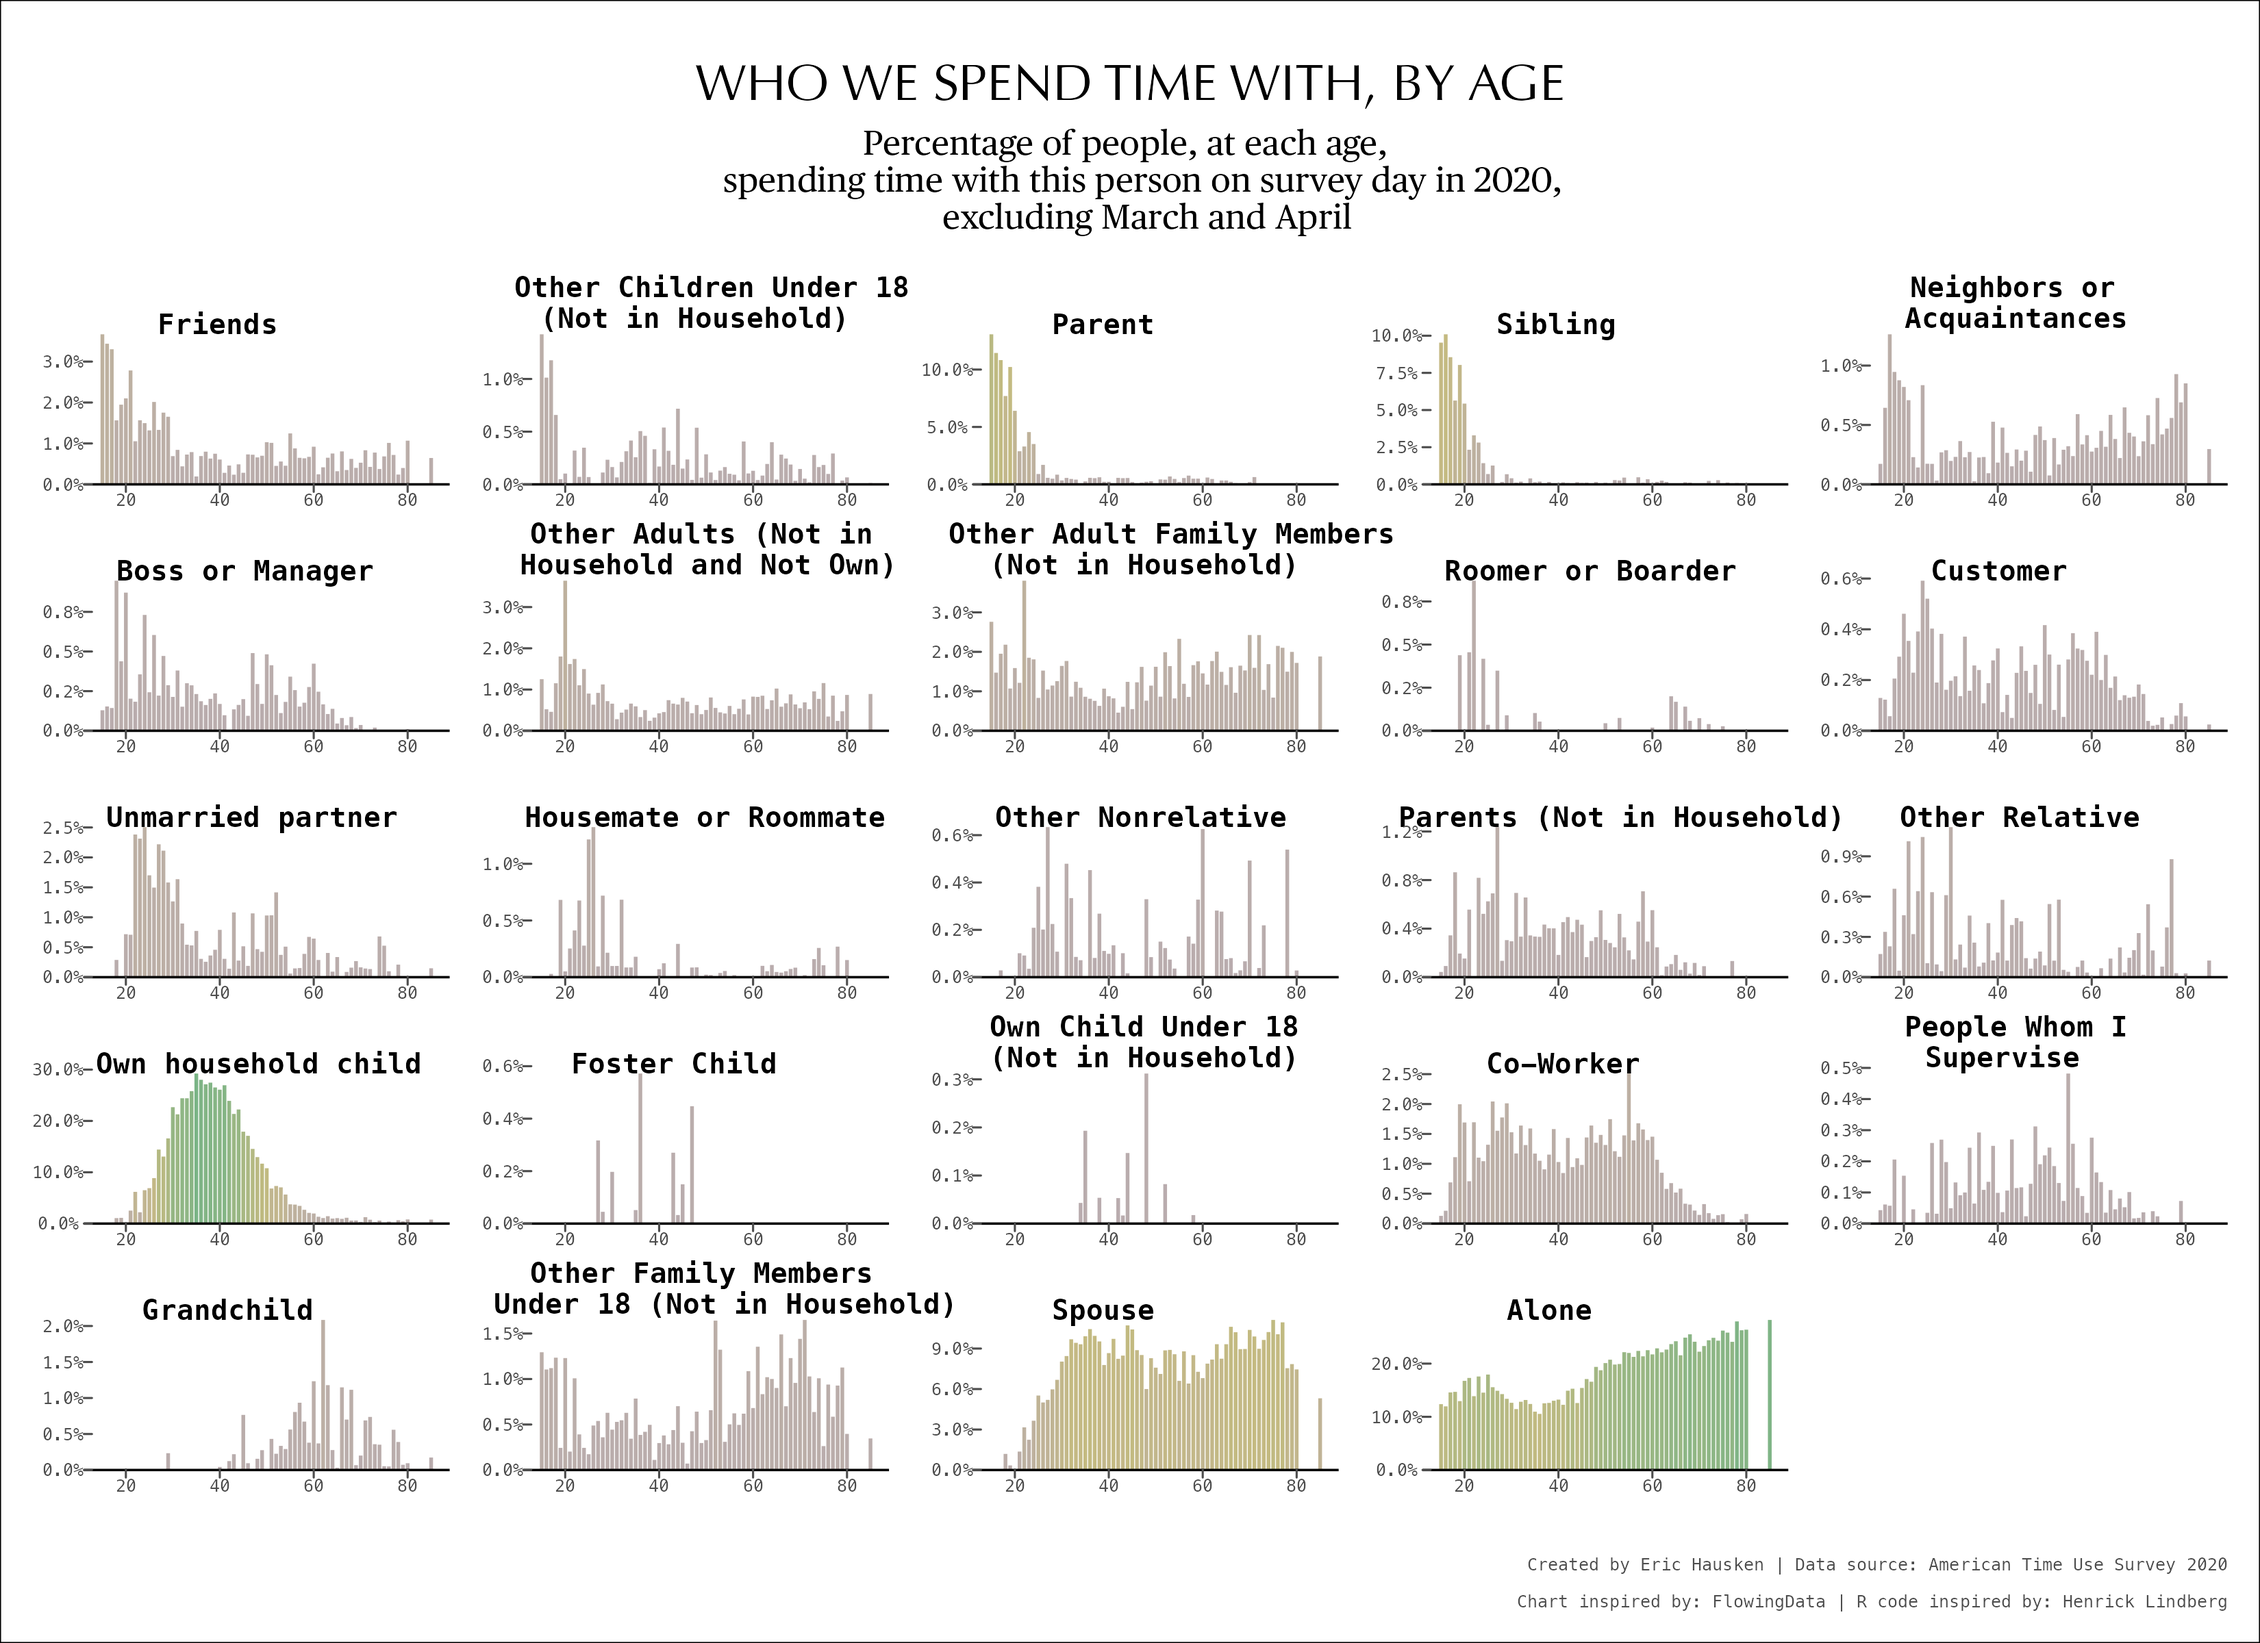
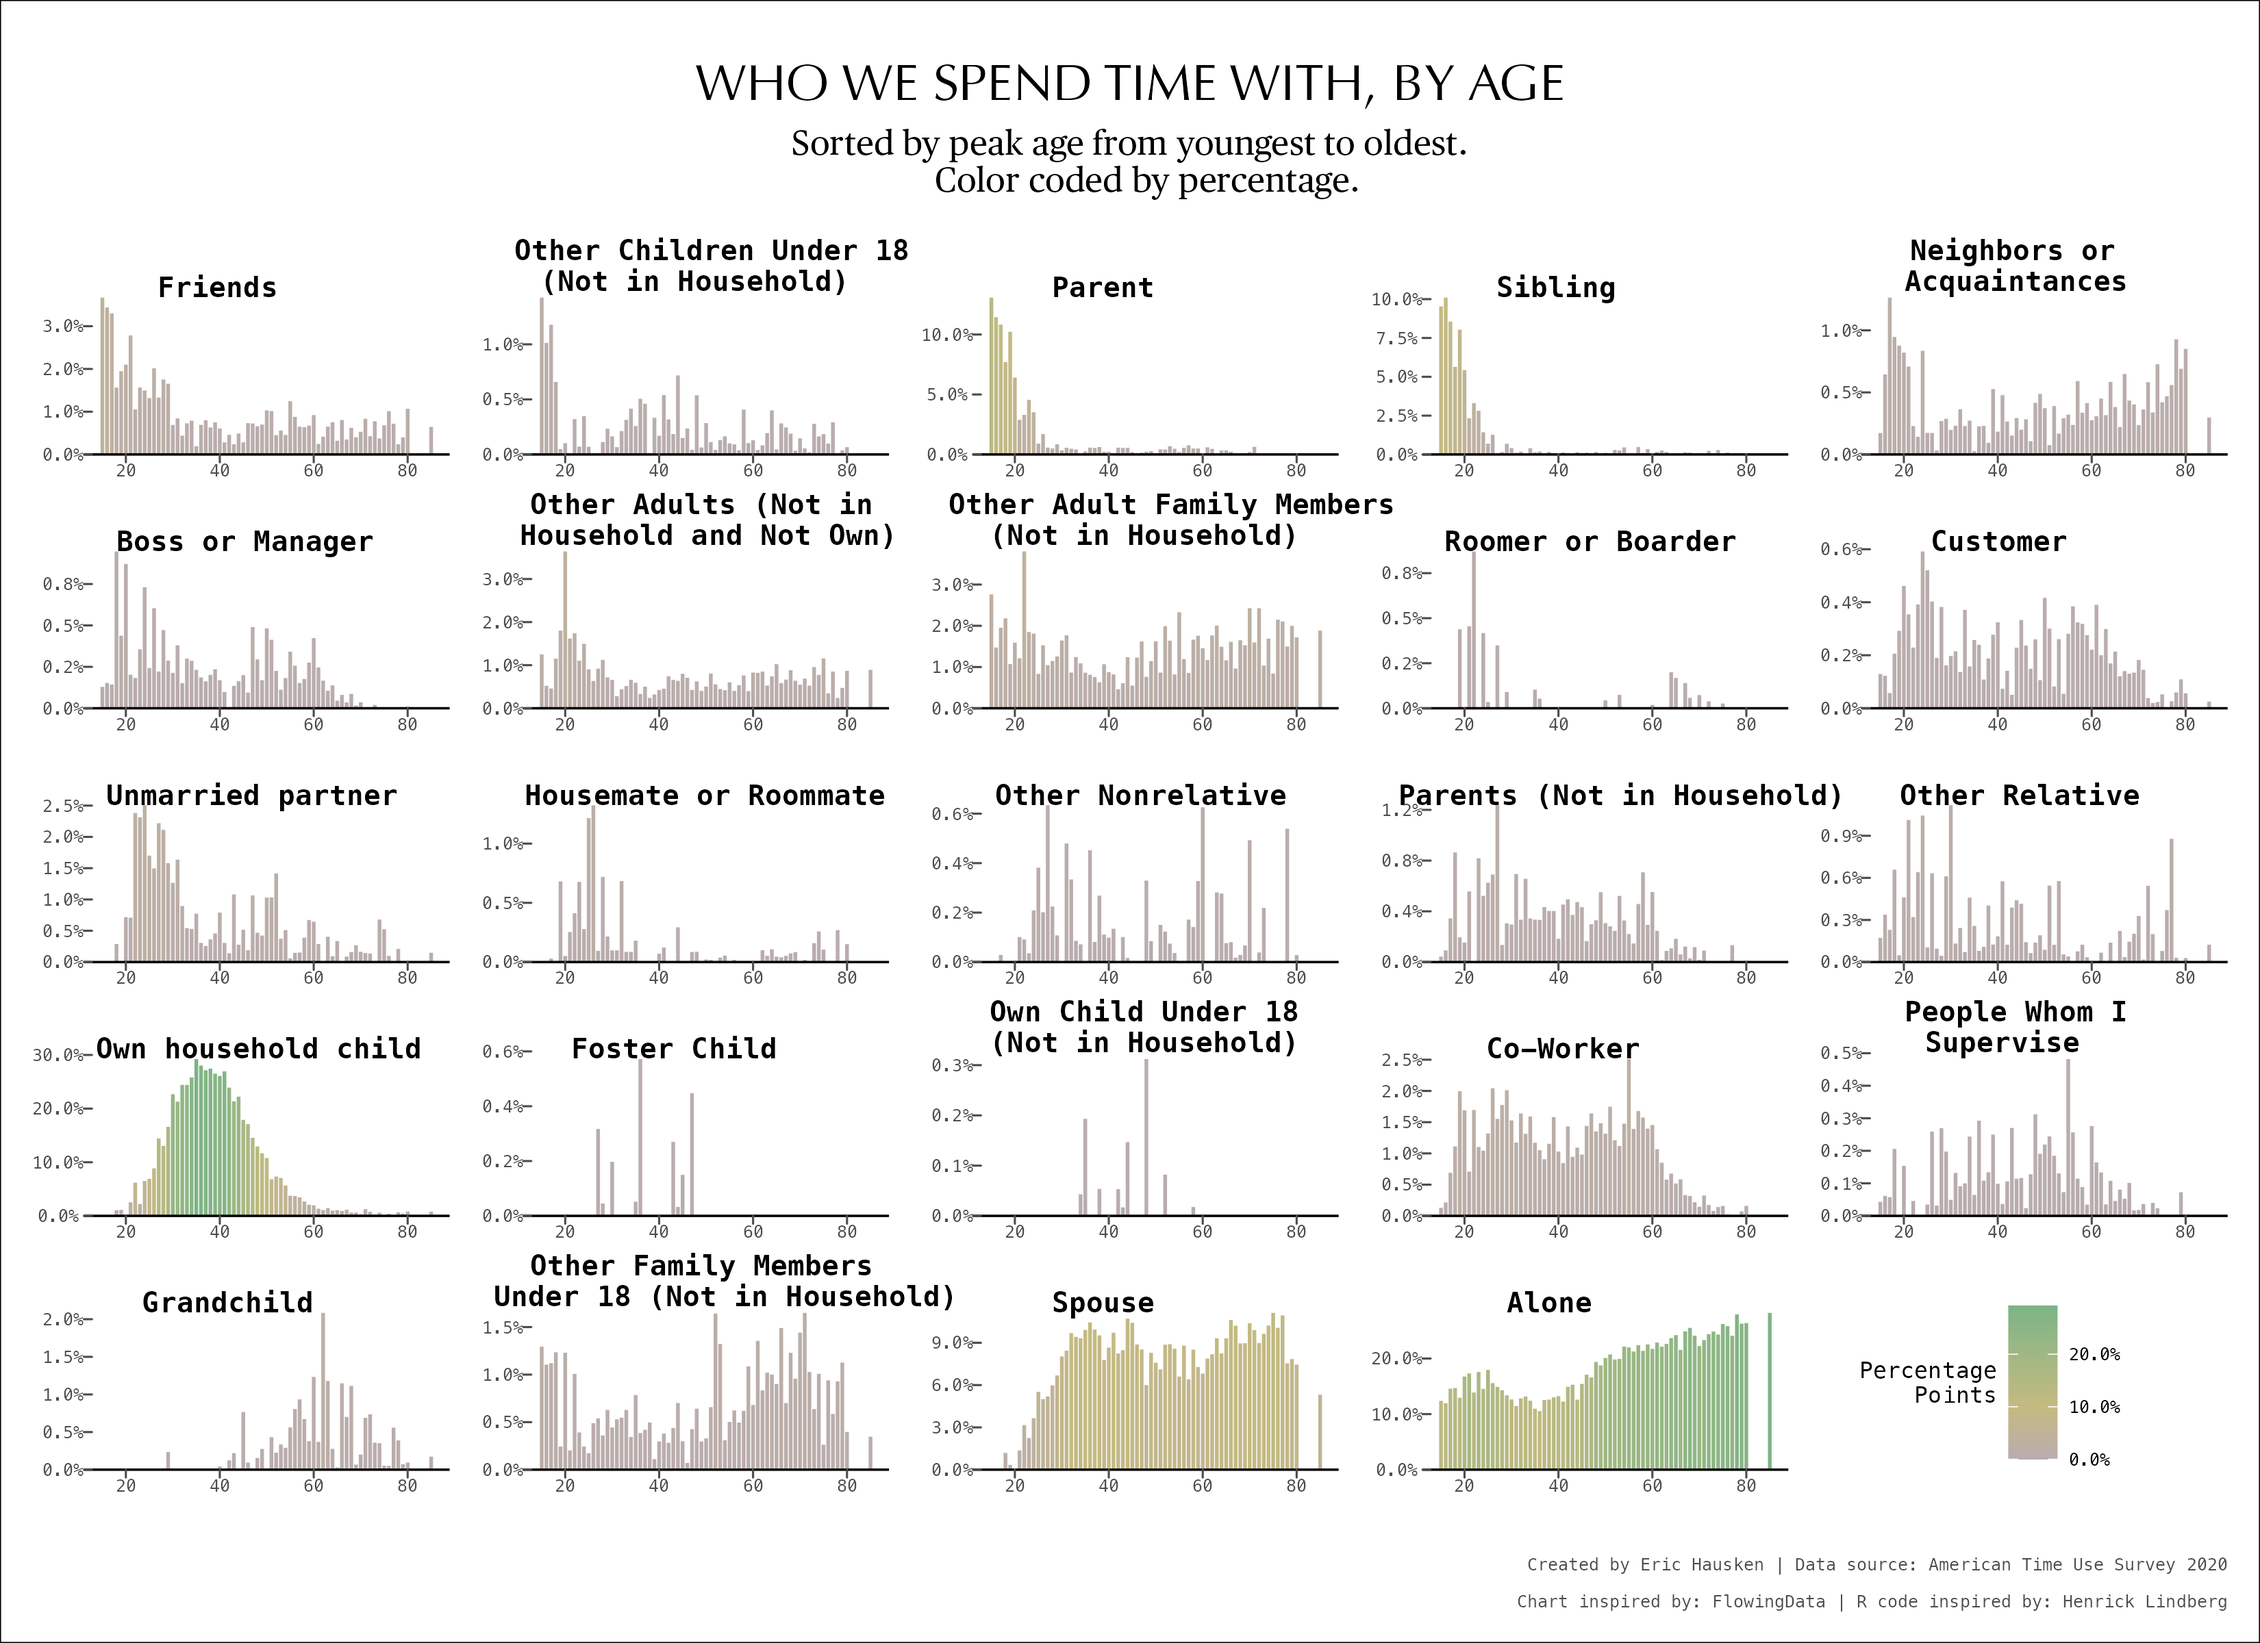
added a legend to the enhanced version plot

diff --git a/_projects/2023/100510783/100510783.html b/_projects/2023/100510783/100510783.html
@@ -1616,9 +1616,7 @@ Figure 2: Color Theme
 <span>    </span>
 <span>    <span class='co'># TITLES </span></span>
 <span>    title <span class='op'>=</span> <span class='st'>"WHO WE SPEND TIME WITH, BY AGE"</span>,</span>
-<span>    subtitle <span class='op'>=</span> <span class='st'>"Percentage of people, at each age, </span></span>
-<span><span class='st'>    spending time with this person on survey day in 2020, </span></span>
-<span><span class='st'>    excluding March and April"</span>,</span>
+<span>    subtitle <span class='op'>=</span> <span class='st'>"Sorted by peak age from youngest to oldest."</span>,</span>
 <span>    caption <span class='op'>=</span> <span class='st'>"Created by Eric Hausken | Data source: American Time Use Survey 2020\n</span></span>
 <span><span class='st'>    Chart inspired by: FlowingData | R code inspired by: Henrick Lindberg"</span><span class='op'>)</span> <span class='op'>+</span></span>
 <span>  </span>
@@ -1671,14 +1669,18 @@ Figure 2: Color Theme
 <span>  <span class='op'>)</span></span></code></pre>
 </div>
 </div>
-<pre><code>ggsave(filename = &quot;Replication_plot.png&quot;, 
-       plot = plt, 
-       width = unit(11, &quot;in&quot;), 
-       height = unit(8, &quot;in&quot;) 
-)</code></pre>
+<div class="layout-chunk" data-layout="l-body">
+<div class="sourceCode">
+<pre class="sourceCode r"><code class="sourceCode r"><span><span class='fu'><a href='https://ggplot2.tidyverse.org/reference/ggsave.html'>ggsave</a></span><span class='op'>(</span>filename <span class='op'>=</span> <span class='st'>"Replication_plot.png"</span>, </span>
+<span>       plot <span class='op'>=</span> <span class='va'>plt</span>, </span>
+<span>       width <span class='op'>=</span> <span class='fu'><a href='https://rdrr.io/r/grid/unit.html'>unit</a></span><span class='op'>(</span><span class='fl'>11</span>, <span class='st'>"in"</span><span class='op'>)</span>, </span>
+<span>       height <span class='op'>=</span> <span class='fu'><a href='https://rdrr.io/r/grid/unit.html'>unit</a></span><span class='op'>(</span><span class='fl'>8</span>, <span class='st'>"in"</span><span class='op'>)</span> </span>
+<span><span class='op'>)</span></span></code></pre>
+</div>
+</div>
 <div class="layout-chunk" data-layout="l-body">
 <div class="figure" style="text-align: center"><span style="display:block;" id="fig:unnamed-chunk-3"></span>
-<img src="Replication_plot.png" alt="Replication" width="100%" />
+<img src="Replication_plot.png" alt="Replication" width="100%" data-distill-preview=1 />
 <p class="caption">
 Figure 3: Replication
 </p>
@@ -1690,9 +1692,7 @@ Figure 3: Replication
 <pre class="sourceCode r"><code class="sourceCode r"><span><span class='va'>plt_2</span> <span class='op'>&lt;-</span> <span class='va'>data</span> <span class='op'>|&gt;</span> </span>
 <span>  <span class='fu'><a href='https://ggplot2.tidyverse.org/reference/ggplot.html'>ggplot</a></span><span class='op'>(</span></span>
 <span>      <span class='fu'><a href='https://ggplot2.tidyverse.org/reference/aes.html'>aes</a></span><span class='op'>(</span>x <span class='op'>=</span> <span class='va'>TEAGE</span>, y <span class='op'>=</span> <span class='va'>p</span>, fill <span class='op'>=</span> <span class='va'>p</span><span class='op'>)</span><span class='op'>)</span> <span class='op'>+</span></span>
-<span>      <span class='fu'><a href='https://ggplot2.tidyverse.org/reference/geom_bar.html'>geom_col</a></span><span class='op'>(</span>width <span class='op'>=</span> <span class='fl'>.8</span>, </span>
-<span>  <span class='op'>)</span> <span class='op'>+</span></span>
-<span>  </span>
+<span>  <span class='fu'><a href='https://ggplot2.tidyverse.org/reference/geom_bar.html'>geom_col</a></span><span class='op'>(</span>width <span class='op'>=</span> <span class='fl'>.8</span><span class='op'>)</span> <span class='op'>+</span></span>
 <span>  <span class='fu'><a href='https://ggplot2.tidyverse.org/reference/geom_abline.html'>geom_hline</a></span><span class='op'>(</span>yintercept <span class='op'>=</span> <span class='fl'>0</span>, linewidth <span class='op'>=</span> <span class='fl'>.4</span><span class='op'>)</span> <span class='op'>+</span></span>
 <span>  </span>
 <span>  <span class='co'># facet wrap</span></span>
@@ -1705,9 +1705,8 @@ Figure 3: Replication
 <span>    </span>
 <span>    <span class='co'># TITLES </span></span>
 <span>    title <span class='op'>=</span> <span class='st'>"WHO WE SPEND TIME WITH, BY AGE"</span>,</span>
-<span>    subtitle <span class='op'>=</span> <span class='st'>"Percentage of people, at each age, </span></span>
-<span><span class='st'>    spending time with this person on survey day in 2020, </span></span>
-<span><span class='st'>    excluding March and April"</span>,</span>
+<span>    subtitle <span class='op'>=</span> <span class='st'>"Sorted by peak age from youngest to oldest.</span></span>
+<span><span class='st'>    Color coded by percentage."</span>,</span>
 <span>    caption <span class='op'>=</span> <span class='st'>"Created by Eric Hausken | Data source: American Time Use Survey 2020\n</span></span>
 <span><span class='st'>    Chart inspired by: FlowingData | R code inspired by: Henrick Lindberg"</span><span class='op'>)</span> <span class='op'>+</span></span>
 <span>  </span>
@@ -1732,8 +1731,15 @@ Figure 3: Replication
 <span>    </span>
 <span>    <span class='co'>#  colors </span></span>
 <span>    plot.background <span class='op'>=</span> <span class='fu'><a href='https://ggplot2.tidyverse.org/reference/element.html'>element_rect</a></span><span class='op'>(</span>fill <span class='op'>=</span> <span class='st'>"white"</span><span class='op'>)</span>, </span>
-<span>    legend.position <span class='op'>=</span> <span class='st'>"none"</span>,</span>
 <span>    </span>
+<span>    <span class='co'># legend </span></span>
+<span>    legend.position <span class='op'>=</span> <span class='fu'><a href='https://rdrr.io/r/base/c.html'>c</a></span><span class='op'>(</span><span class='fl'>.95</span>, <span class='fl'>0.08</span><span class='op'>)</span>,</span>
+<span>    legend.justification <span class='op'>=</span> <span class='fl'>1</span>,</span>
+<span>    legend.direction <span class='op'>=</span> <span class='st'>"vertical"</span>,</span>
+<span>    legend.title <span class='op'>=</span> <span class='fu'><a href='https://ggplot2.tidyverse.org/reference/element.html'>element_text</a></span><span class='op'>(</span>size <span class='op'>=</span> <span class='fl'>8</span>, family <span class='op'>=</span> <span class='st'>"Menlo"</span><span class='op'>)</span>,</span>
+<span>    legend.text <span class='op'>=</span> <span class='fu'><a href='https://ggplot2.tidyverse.org/reference/element.html'>element_text</a></span><span class='op'>(</span>size <span class='op'>=</span> <span class='fl'>6</span>, family <span class='op'>=</span> <span class='st'>"Menlo"</span> <span class='op'>)</span>,</span>
+<span>    legend.title.align <span class='op'>=</span> <span class='fl'>1</span>,</span>
+<span>    legend.key.height <span class='op'>=</span> <span class='fu'><a href='https://rdrr.io/r/grid/unit.html'>unit</a></span><span class='op'>(</span><span class='fl'>.15</span>, <span class='st'>"in"</span><span class='op'>)</span>,</span>
 <span>    </span>
 <span>    <span class='co'># plot titles </span></span>
 <span>    plot.title <span class='op'>=</span> <span class='fu'><a href='https://ggplot2.tidyverse.org/reference/element.html'>element_text</a></span><span class='op'>(</span></span>
@@ -1750,12 +1756,19 @@ Figure 3: Replication
 <span>    </span>
 <span>  <span class='op'>)</span> <span class='op'>+</span></span>
 <span>  <span class='fu'><a href='https://ggplot2.tidyverse.org/reference/scale_continuous.html'>scale_y_continuous</a></span><span class='op'>(</span></span>
-<span>    label <span class='op'>=</span> <span class='fu'>scales</span><span class='fu'>::</span><span class='fu'><a href='https://scales.r-lib.org/reference/label_percent.html'>label_percent</a></span><span class='op'>(</span>accuracy <span class='op'>=</span> <span class='fl'>.1</span><span class='op'>)</span></span>
+<span>    label <span class='op'>=</span> <span class='fu'>scales</span><span class='fu'>::</span><span class='fu'><a href='https://scales.r-lib.org/reference/label_percent.html'>label_percent</a></span><span class='op'>(</span>accuracy <span class='op'>=</span> <span class='fl'>.1</span><span class='op'>)</span>,</span>
 <span>  <span class='op'>)</span> <span class='op'>+</span></span>
 <span>  <span class='fu'><a href='https://ggplot2.tidyverse.org/reference/scale_gradient.html'>scale_fill_gradient2</a></span><span class='op'>(</span></span>
 <span>    low <span class='op'>=</span> <span class='va'>colors</span><span class='op'>[</span><span class='fl'>2</span><span class='op'>]</span>, mid <span class='op'>=</span> <span class='va'>colors</span><span class='op'>[</span><span class='fl'>3</span><span class='op'>]</span>, high <span class='op'>=</span> <span class='va'>colors</span><span class='op'>[</span><span class='fl'>4</span><span class='op'>]</span>, </span>
-<span>    midpoint <span class='op'>=</span> <span class='fl'>.1</span></span>
-<span>  <span class='op'>)</span></span>
+<span>    midpoint <span class='op'>=</span> <span class='fl'>.1</span>,</span>
+<span>    guide <span class='op'>=</span> <span class='fu'><a href='https://ggplot2.tidyverse.org/reference/guide_colourbar.html'>guide_colorbar</a></span><span class='op'>(</span></span>
+<span>    title.position <span class='op'>=</span> <span class='st'>"left"</span>,</span>
+<span>    title <span class='op'>=</span> <span class='st'>"Percentage\nPoints"</span><span class='op'>)</span>,</span>
+<span>    labels <span class='op'>=</span> <span class='fu'><a href='https://rdrr.io/r/base/c.html'>c</a></span><span class='op'>(</span><span class='st'>"0.0%"</span>, <span class='st'>"10.0%"</span>, <span class='st'>"20.0%"</span><span class='op'>)</span>,</span>
+<span>    breaks <span class='op'>=</span> <span class='fu'><a href='https://rdrr.io/r/base/c.html'>c</a></span><span class='op'>(</span><span class='fl'>0</span>, <span class='fl'>.1</span>, <span class='fl'>.2</span><span class='op'>)</span></span>
+<span>    </span>
+<span>  <span class='op'>)</span> </span>
+<span>  </span>
 <span></span>
 <span><span class='fu'><a href='https://ggplot2.tidyverse.org/reference/ggsave.html'>ggsave</a></span><span class='op'>(</span>filename <span class='op'>=</span> <span class='st'>"Enhanced_version_plot.png"</span>, </span>
 <span>       plot <span class='op'>=</span> <span class='va'>plt_2</span>, </span>
@@ -1765,13 +1778,13 @@ Figure 3: Replication
 </div>
 <div class="layout-chunk" data-layout="l-body">
 <div class="figure" style="text-align: center"><span style="display:block;" id="fig:unnamed-chunk-4"></span>
-<img src="Enhanced_version_plot.png" alt="Enhanced version" width="100%" />
+<img src="Enhanced_version_plot.png" alt="Enhanced version" width="120%" />
 <p class="caption">
 Figure 4: Enhanced version
 </p>
 </div>
 </div>
-<div class="sourceCode" id="cb3"><pre class="sourceCode r distill-force-highlighting-css"><code class="sourceCode r"></code></pre></div>
+<div class="sourceCode" id="cb2"><pre class="sourceCode r distill-force-highlighting-css"><code class="sourceCode r"></code></pre></div>
 <!--radix_placeholder_article_footer-->
 <!--/radix_placeholder_article_footer-->
 </div>
